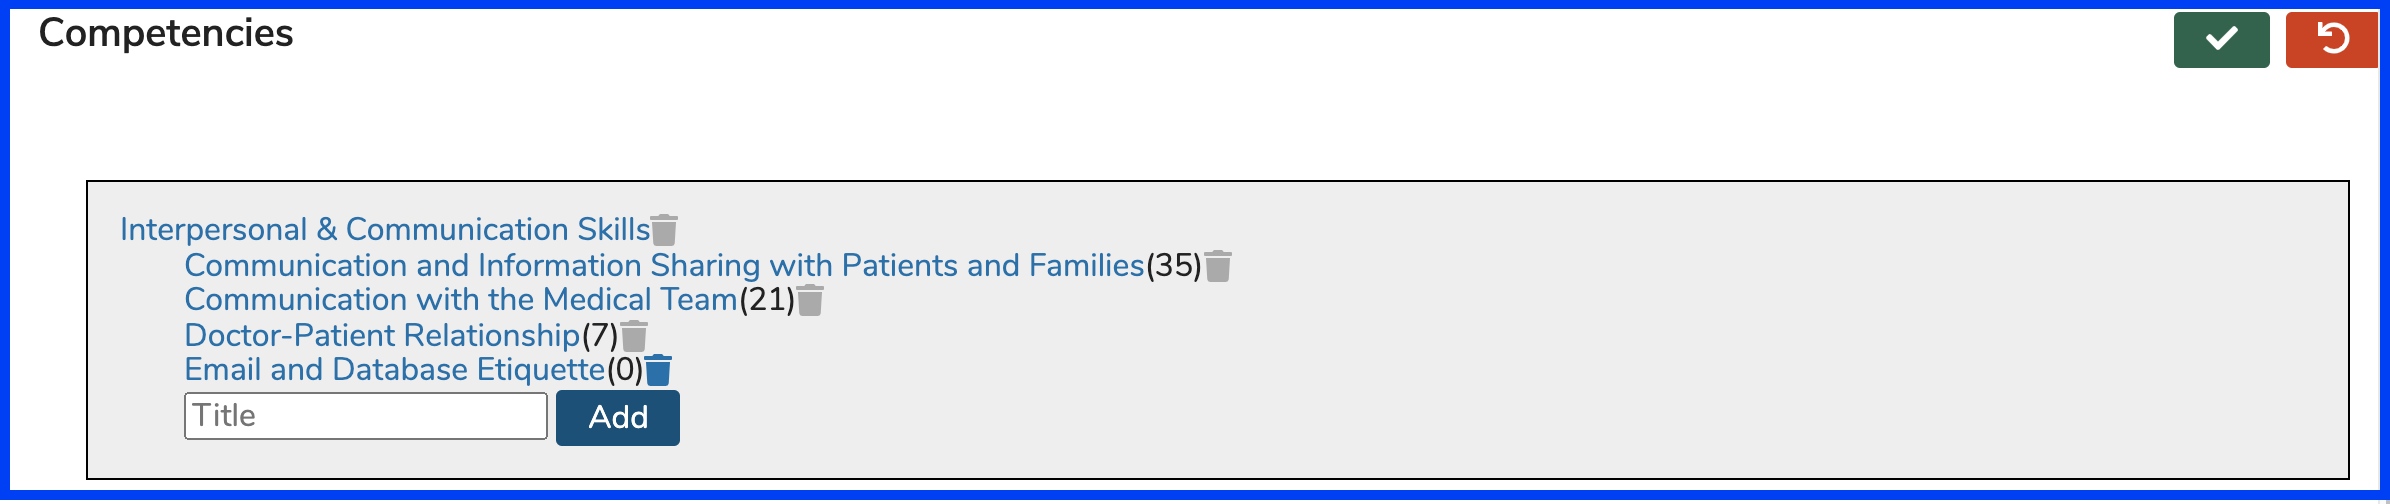
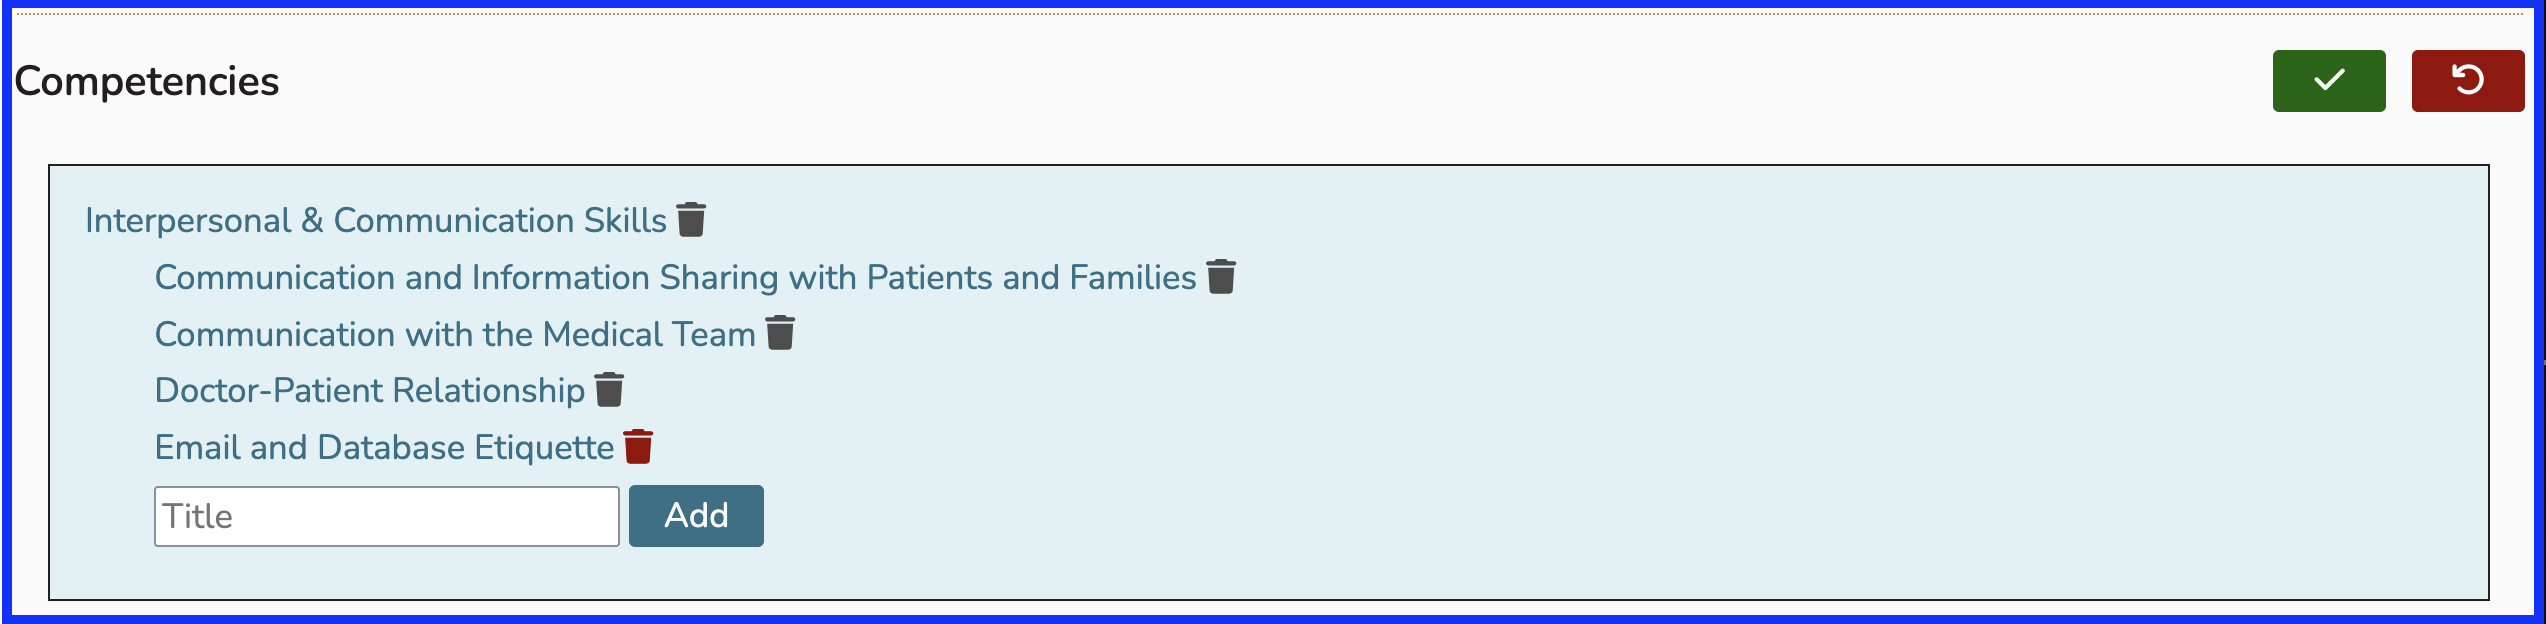
image and text updated

Changed region(s): [[0.0, 0.0, 1.0, 1.0]]

diff --git a/schools/competencies.md b/schools/competencies.md
@@ -23,7 +23,7 @@ In the screen shot below, the "7" refers to the count of Competency domains, whe
 
 ![competencies displayed](../images/schools/competencies/competencies_displayed.png)
 
-Now that "Manage Competencies" has been clicked as shown above, the screen changes to the functional area as shown below, allowing the competencies to be managed. Only the top domain "Interpersonal & Communication skills" is displayed to save space and for clarity. "Email and Database Etiquette" was recently added and is not attached to any courses or sessions and can be deleted. The existence of the trash can icon instead of the count of times it has been attached confirms this.
+Now that "Manage Competencies" has been clicked as shown above, the screen changes to the functional area as shown below, allowing the competencies to be managed. Only the top domain "Interpersonal & Communication skills" is displayed to save space and for clarity. "Email and Database Etiquette" was recently added and is not attached to any courses or sessions and can be deleted. The existence of the active trash can icon instead of an inactive icon confirms this.
 
 ![unused competency](../images/schools/competencies/unused_competency.png)
 
